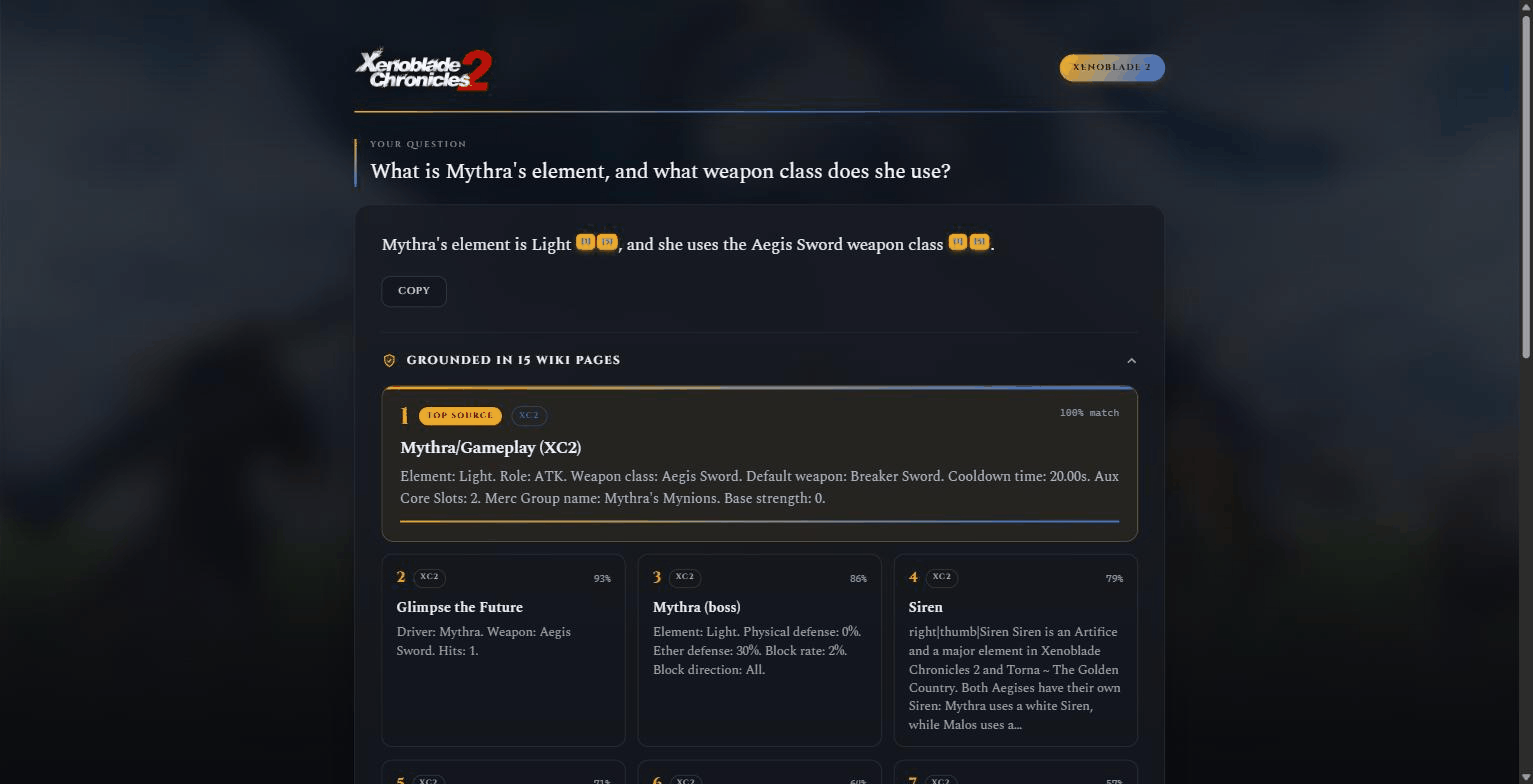
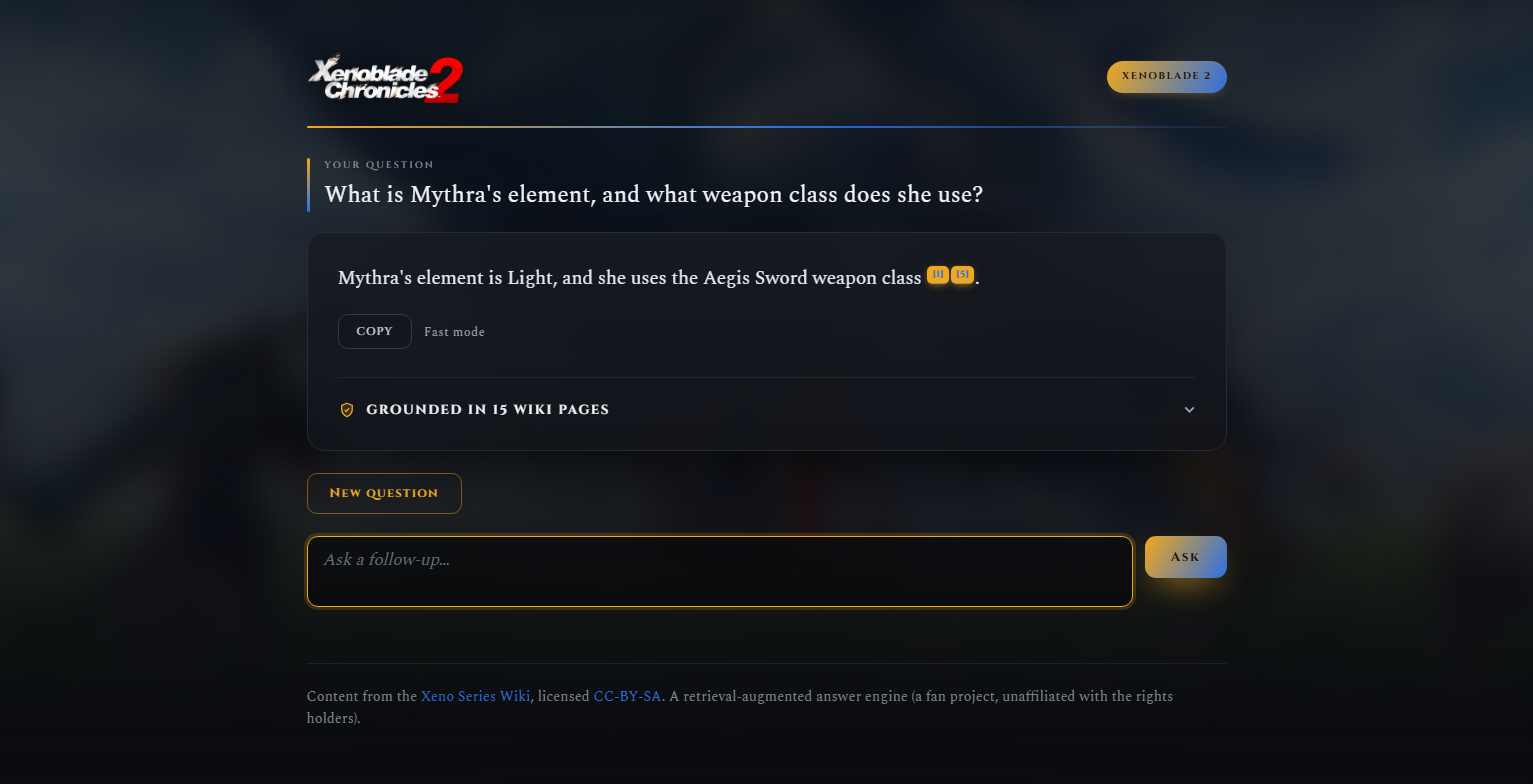
docs(readme): refresh screenshots and demo GIF for the selector-less, auto-routed UI

diff --git a/README.md b/README.md
@@ -13,11 +13,11 @@ A local-first Retrieval-Augmented Generation chatbot that answers natural-langua
 
 <table>
 <tr>
-<td><img src="docs/screenshot-landing.png" width="400" alt="All-games landing page: the Xeno wordmark, a game selector and Fast/Thinking/Scholar answer-style selector, an ask box, and example questions"></td>
+<td><img src="docs/screenshot-landing.png" width="400" alt="All-games landing page: the Xeno wordmark, a game selector, an ask box, and the three retrieve, rerank, cited-answer steps"></td>
 <td><img src="docs/screenshot-search.png" width="400" alt="Xenoblade 2 theme mid-query: the question is submitted and the retrieve-rerank-cite progress indicator is running while the answer streams in"></td>
 </tr>
 <tr>
-<td><img src="docs/screenshot-answer.png" width="400" alt="A grounded, streamed answer about Mythra with inline bracketed citation markers, collapsed under a Grounded in 15 wiki pages source summary"></td>
+<td><img src="docs/screenshot-answer.png" width="400" alt="A grounded, streamed answer about Mythra with inline bracketed citation markers and a Fast mode tier caption (picked automatically by the router), collapsed under a Grounded in 15 wiki pages source summary"></td>
 <td><img src="docs/screenshot-sources.png" width="400" alt="The expanded source panel showing numbered, relevance-tiered source cards pulled from the wiki, each with a percent match score and an excerpt"></td>
 </tr>
 </table>
@@ -183,7 +183,7 @@ question, and poll `GET /health` for store, index, and version status.
 
 ## Demo
 
-![Animated walkthrough: selecting Xenoblade 2, asking about Mythra, and getting a grounded streamed answer whose inline bracketed citations link to numbered, rank-tiered source cards from the wiki](docs/demo.gif)
+![Animated walkthrough: selecting Xenoblade 2, asking about Mythra, and getting a grounded streamed answer, auto-routed to Fast mode, whose inline bracketed citations link to numbered, rank-tiered source cards from the wiki](docs/demo.gif)
 
 ## How it works
 
